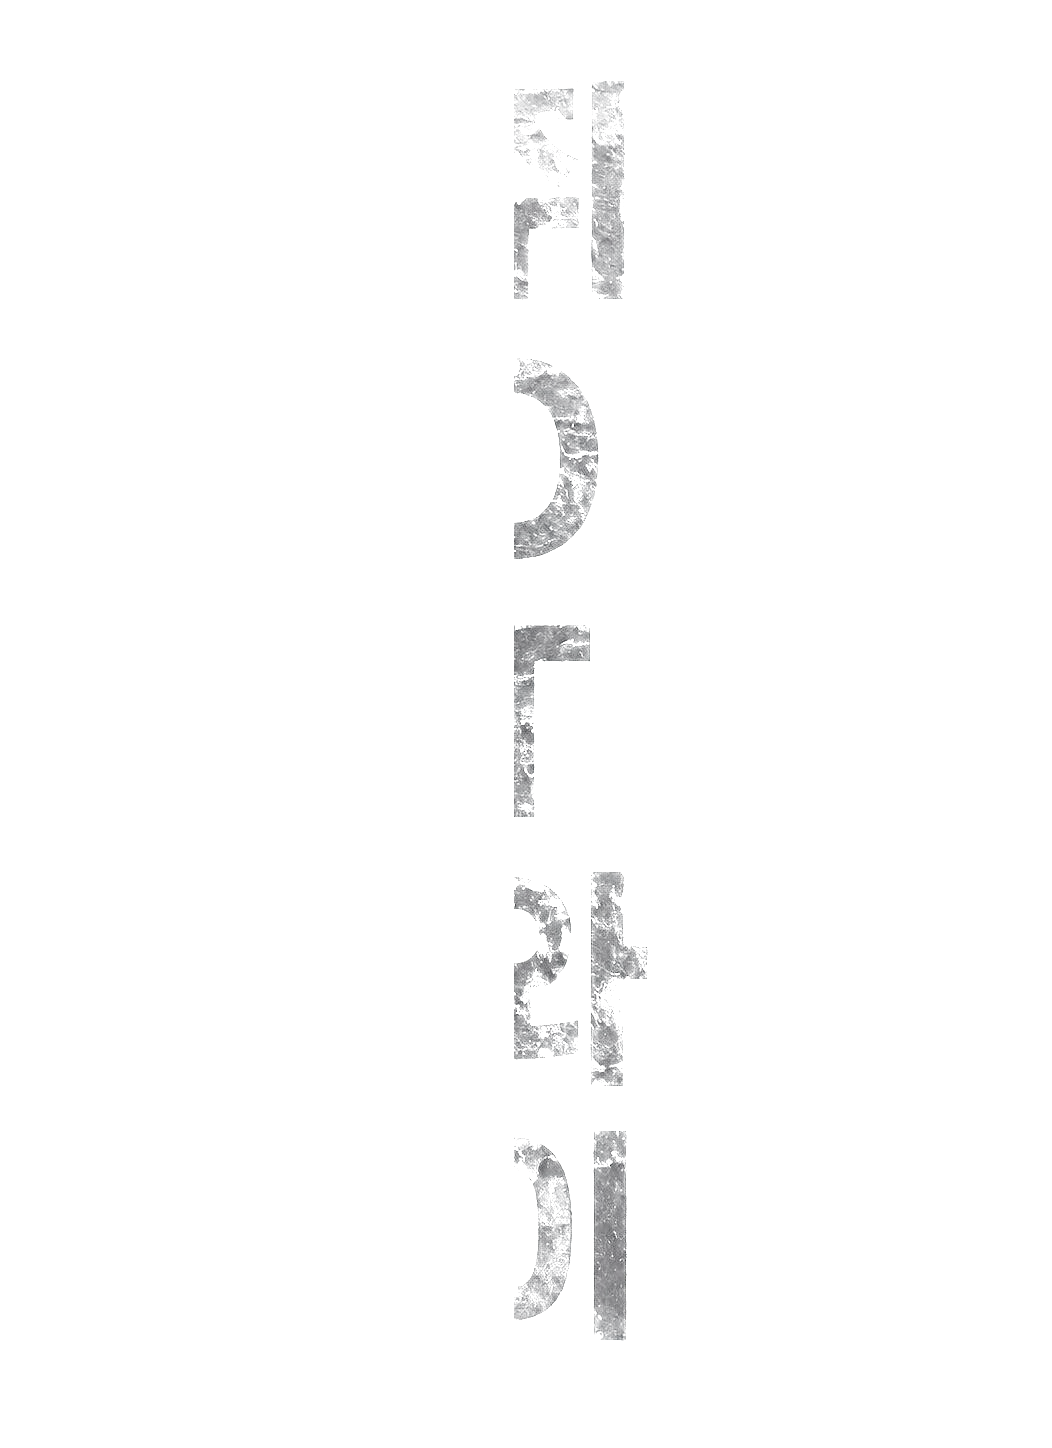
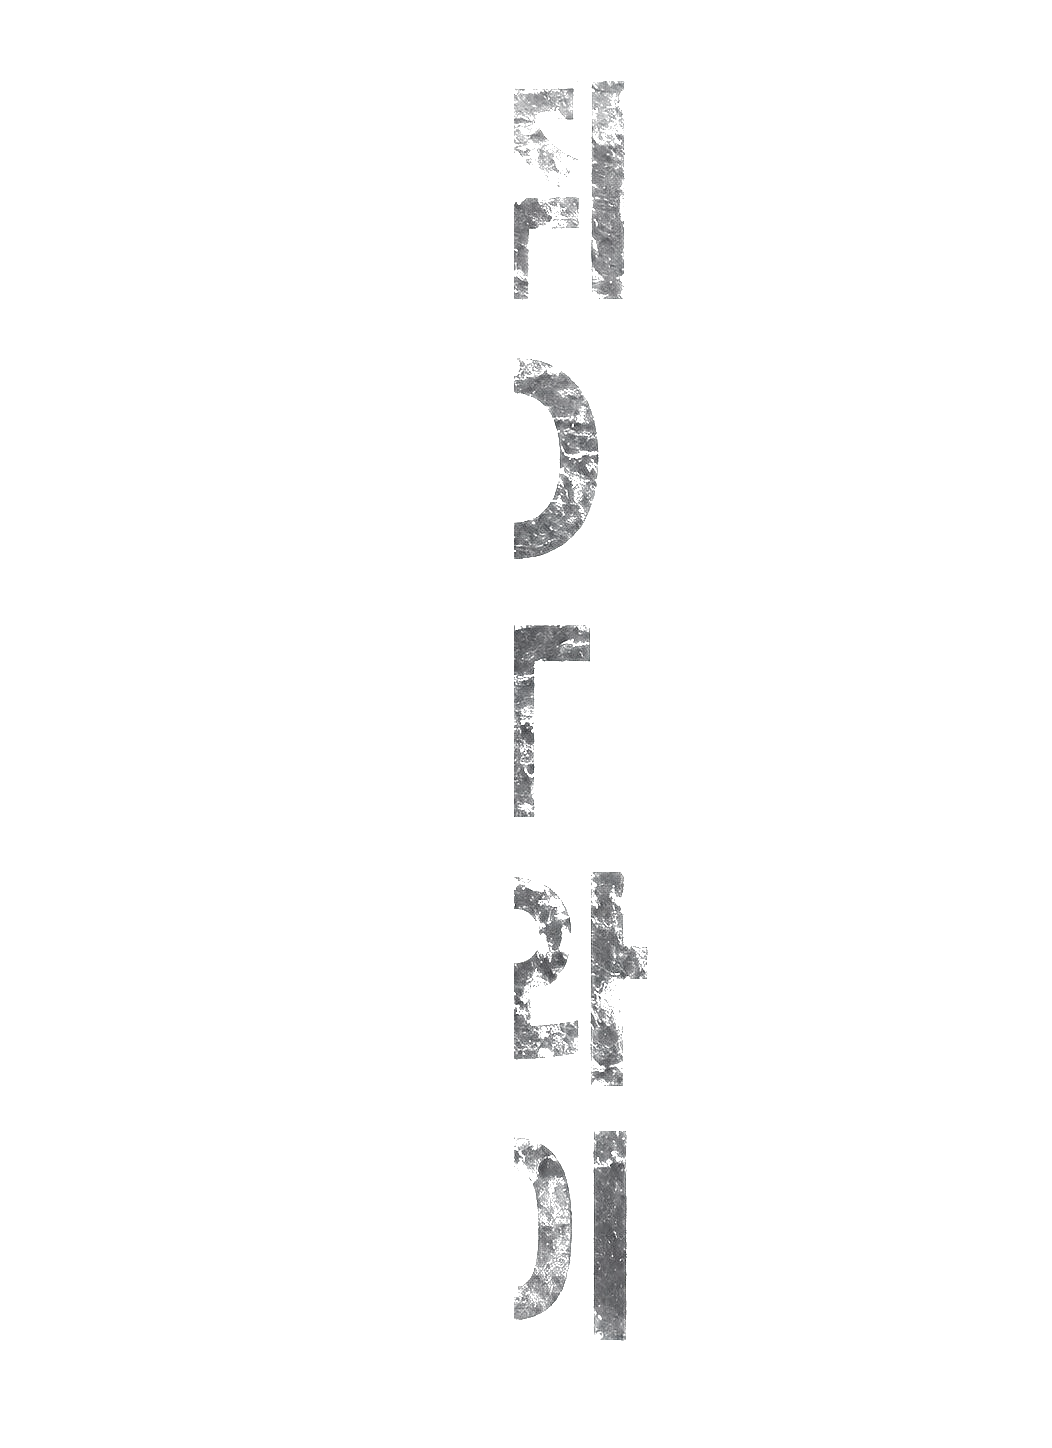
방탈출: 거울을 정면으로(기울기 제거), 긁힌 획 알파 감마 보정으로 진하게

diff --git a/index.html b/index.html
@@ -132,7 +132,6 @@
   #cuImgWrap{ position:relative; max-width:100%; max-height:56%; }
   /* 손거울 — 벽에 비스듬히 대고 좌우로 끌어 맞춘다 */
   .cu-mirror{ position:absolute; z-index:6; cursor:grab; touch-action:none;
-    transform:rotate(-7deg); transform-origin:50% 50%;
     filter:drop-shadow(-6px 10px 14px rgba(0,0,0,.5)); transition:filter .2s; }
   .cu-mirror.grabbing{ cursor:grabbing; filter:drop-shadow(-8px 14px 18px rgba(0,0,0,.6)); }
   .cu-mirror.locked{ cursor:default; }
@@ -140,7 +139,7 @@
   .mirGlass img{ position:absolute; max-width:none; }
   .mirRefl{ transform:scaleX(-1) scaleY(1.02); transform-origin:center;
     filter:brightness(.94) contrast(.96) saturate(.9); }   /* 유리 너머라 살짝 죽은 색 */
-  .mirScr{ pointer-events:none; opacity:.92; }
+  .mirScr{ pointer-events:none; }
   .mirSheen{ position:absolute; inset:0; pointer-events:none;
     background:linear-gradient(112deg, rgba(255,255,255,.30) 0%, rgba(255,255,255,.05) 26%,
       rgba(255,255,255,0) 46%, rgba(255,255,255,.13) 74%, rgba(255,255,255,.03) 100%); }
@@ -1091,8 +1090,8 @@ const pickSet = a => PICK_SETS[a.set] || PICK_SETS.food;
    벽에는 글자가 세로 중심선 왼쪽만 칠해져 있다. 손거울을 그 선에 맞춰 세우면
    반쪽이 거울에 비쳐 글자가 완성되고, 거울에 난 긁힌 자국이 반사만으로는 안 생기는
    획(ㅣ·ㅏ·ㅣ)을 채워준다. 거울은 정면이 아니라 살짝 눕혀 대는 것처럼 기울여 뒀다.
+   거울은 벽에 정면으로 댄다 — 기울여 봤더니 글자가 어긋나 보여서 북쑥이 정면을 택했다.
    쓰는 법: action:{type:"mirror", needItem:"mirror", targetX:48.9, tol:2.6, scratch:"...", ...} */
-const MIRROR_TILT = -7;      // deg — 벽에 비스듬히 대고 있는 느낌
 let mirState=null;
 function clearMirror(){ document.querySelectorAll("#cuImgWrap .cu-mirror").forEach(e=>e.remove()); mirState=null; }
 function buildMirror(a, id){
